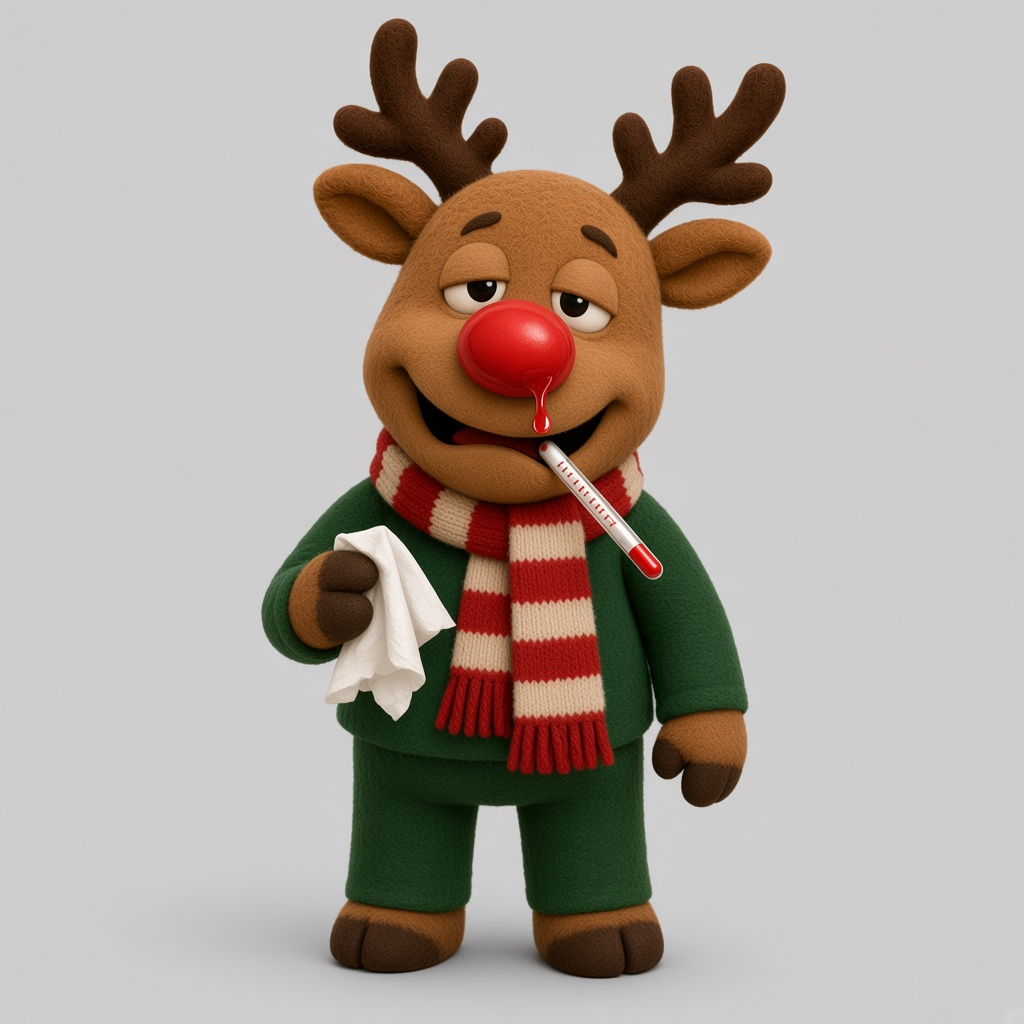
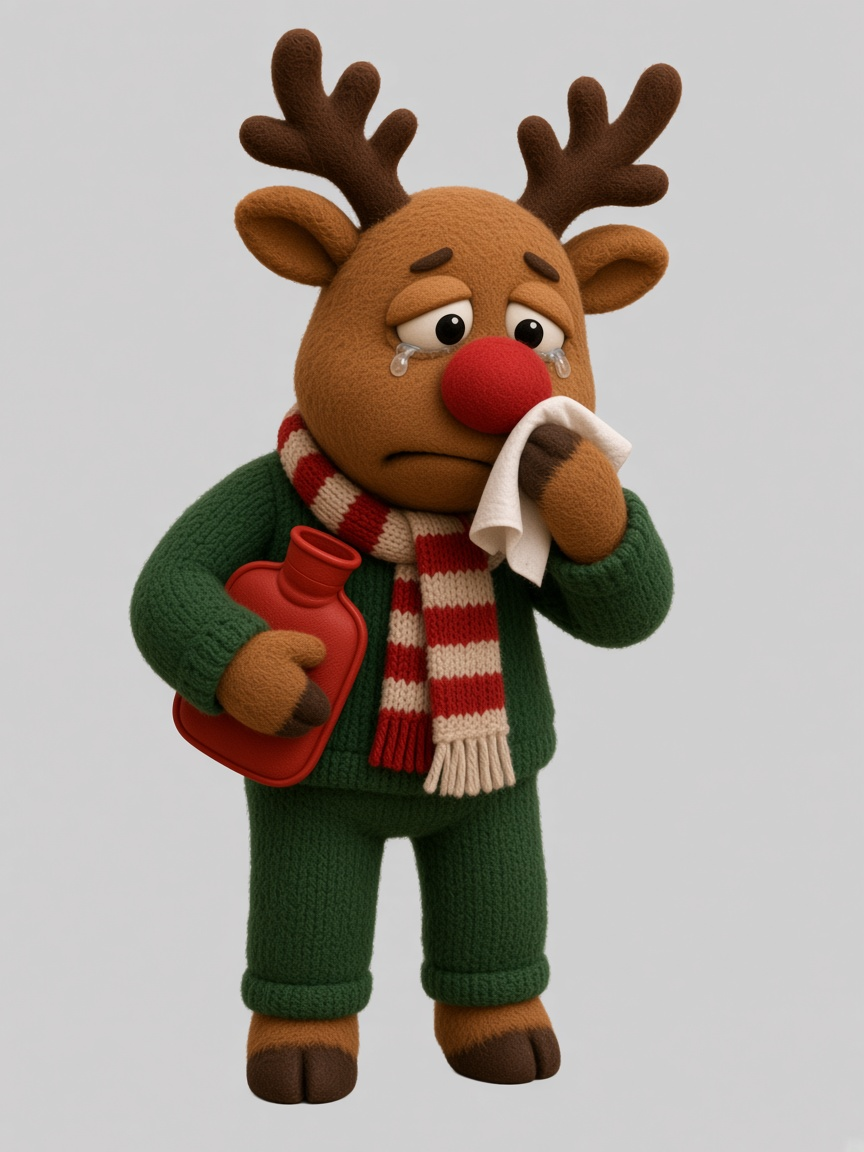
Reindeer with a cold: tissue and hot-water bottle instead of a thermometer; film keyframes

Changed region(s): [[0.125, 0.0, 0.8125, 0.9688]]

diff --git a/src/components/film/shots.tsx b/src/components/film/shots.tsx
@@ -324,7 +324,7 @@ function Stable({ beat, beatMs }: ShotProps) {
         transition={sneezed ? { duration: 0.7 } : { duration: 1.6, delay: 0.35, times: [0, 0.2, 0.33, 0.55, 0.66, 1] }}
         style={{ transformOrigin: "50% 100%" }}
       >
-        <Cutout src="/show/film/reindeer-sick.webp" w={527} h={963} />
+        <Cutout src="/show/film/reindeer-sick.webp" w={557} h={1080} />
       </motion.div>
       {sneezed > 0 &&
         Array.from({ length: 7 }, (_, i) => (
